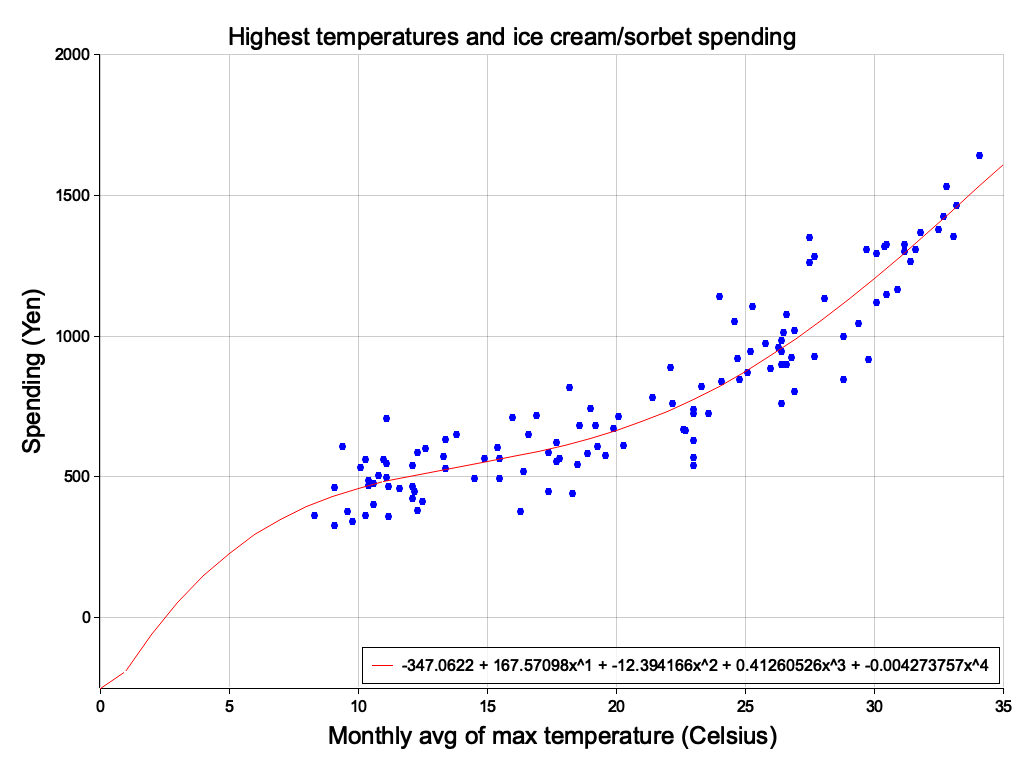
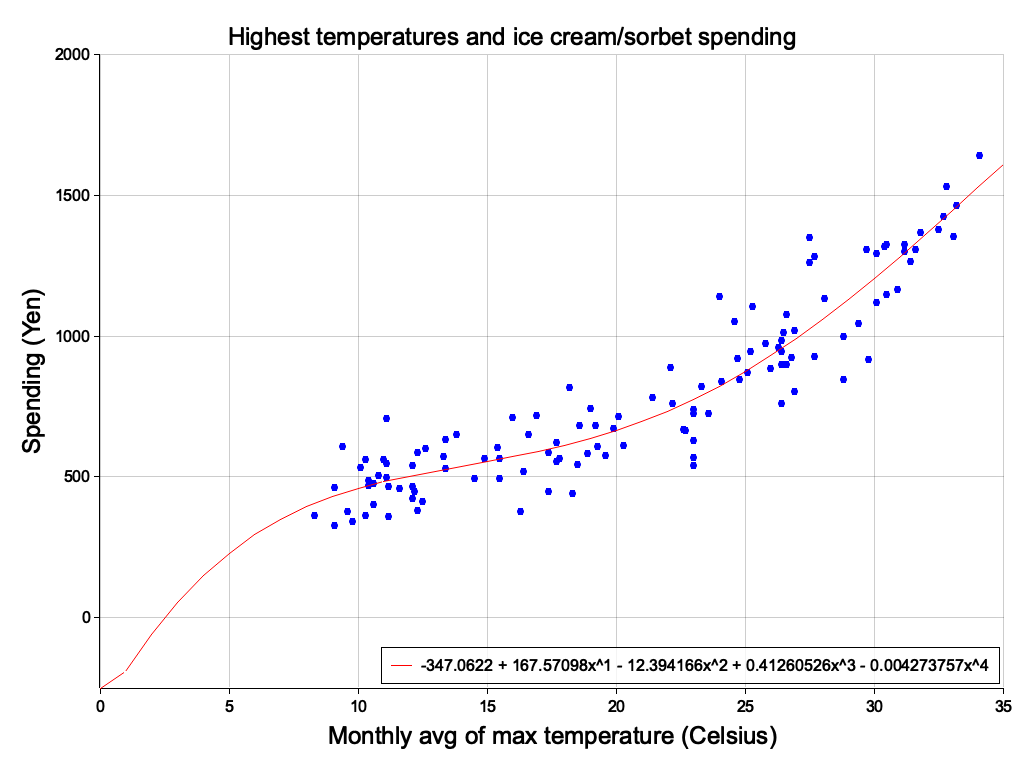
create type Polynomial

Changed region(s): [[0.375, 0.8438, 0.875, 0.875]]

diff --git a/src/regression.rs b/src/regression.rs
@@ -2,7 +2,8 @@ use anyhow::Result;
 use derive_new::new;
 use plotters::prelude::*;
 use smartcore::linalg::naive::dense_matrix::*;
-use std::ops::Range;
+use smartcore::linear::linear_regression::*;
+use std::ops::{Range, RangeBounds};
 
 pub fn slope_and_intercept(data: &[(f32, f32)]) -> (f32, f32) {
     let len = data.len() as f32;
@@ -24,25 +25,68 @@ pub fn slope_and_intercept(data: &[(f32, f32)]) -> (f32, f32) {
     (a, y_avg - a * x_avg)
 }
 
-pub fn set_degree(x: f32, deg: usize) -> Vec<f32> {
+pub fn set_degree(x: f32, degree: usize) -> Vec<f32> {
     let mut v = vec![x];
-    for _ in 1..deg {
+    for _ in 1..degree {
         v.push(v[v.len() - 1] * x);
     }
     v
 }
 
-pub fn format_legend(
-    deg: usize,
-    coef: &DenseMatrix<f32>,
-    intercept: f32,
-) -> String {
-    let mut s = String::new();
-    s = format!("{}{}", s, intercept);
-    for i in 0..deg {
-        s = format!("{} + {}x^{}", s, coef.get(i, 0), i + 1);
+#[derive(new)]
+pub struct Polynomial {
+    lr: LinearRegression<f32, DenseMatrix<f32>>,
+    degree: usize,
+}
+
+impl Polynomial {
+    pub fn polyfit(x: &[f32], y: &[f32], degree: usize) -> Result<Self> {
+        let x = DenseMatrix::from_2d_vec(
+            &x.iter()
+                .map(|&x| set_degree(x, degree))
+                .collect::<Vec<Vec<_>>>(),
+        );
+        let y = y.to_vec();
+
+        let lr = LinearRegression::fit(
+            &x,
+            &y,
+            LinearRegressionParameters::default()
+                .with_solver(LinearRegressionSolverName::QR),
+        )?;
+
+        Ok(Self { lr, degree })
     }
-    s
+
+    pub fn polyval<R>(&self, range: R) -> Result<Vec<f32>>
+    where
+        R: RangeBounds<i32> + Iterator<Item = i32>,
+    {
+        let x = range
+            .map(|x| x as f32)
+            .map(|x| set_degree(x, self.degree))
+            .collect::<Vec<Vec<_>>>();
+
+        let dm = DenseMatrix::from_2d_vec(&x);
+        let yhat = self.lr.predict(&dm)?;
+        Ok(yhat)
+    }
+
+    pub fn format_legend(&self) -> String {
+        let mut s = String::new();
+        s = format!("{}{}", s, self.lr.intercept());
+        for i in 0..self.degree {
+            let coef = self.lr.coefficients().get(i, 0);
+            let (op, coef) = if coef >= 0.0 {
+                ('+', coef)
+            } else {
+                ('-', -coef)
+            };
+
+            s = format!("{} {} {}x^{}", s, op, coef, i + 1);
+        }
+        s
+    }
 }
 
 #[derive(new)]
@@ -76,9 +120,11 @@ pub fn config_simple<'a>() -> PlotConfig<'a> {
 
 pub fn config_icecream<'a>() -> PlotConfig<'a> {
     PlotConfig::new(
-        std::iter::zip(TEMPERATURES, SPENDINGS)
-            .map(|(x, y)| (*x, *y))
-            .collect::<Vec<_>>(),
+        std::iter::zip(
+            dataset::TEMPERATURES.to_vec(),
+            dataset::SPENDINGS.to_vec(),
+        )
+        .collect::<Vec<_>>(),
         0f32..35f32,
         -250f32..2000f32,
         "Highest temperatures and ice cream/sorbet spending",
@@ -163,30 +209,33 @@ pub fn plot<P: AsRef<std::path::Path>>(
     Ok(())
 }
 
-pub const TEMPERATURES: &[f32] = &[
-    9.1, 11.2, 12.3, 18.9, 22.2, 26., 30.9, 31.2, 28.8, 23., 18.3, 11.1,
-    8.3, 9.1, 12.5, 18.5, 23.6, 24.8, 30.1, 33.1, 29.8, 23., 16.3, 11.2,
-    9.6, 10.3, 16.4, 19.2, 24.1, 26.5, 31.4, 33.2, 28.8, 23., 17.4, 12.1,
-    10.6, 9.8, 14.5, 19.6, 24.7, 26.9, 30.5, 31.2, 26.9, 23., 17.4, 11.,
-    10.4, 10.4, 15.5, 19.3, 26.4, 26.4, 30.1, 30.5, 26.4, 22.7, 17.8,
-    13.4, 10.6, 12.2, 14.9, 20.3, 25.2, 26.3, 29.7, 31.6, 27.7, 22.6,
-    15.5, 13.8, 10.8, 12.1, 13.4, 19.9, 25.1, 26.4, 31.8, 30.4, 26.8,
-    20.1, 16.6, 11.1, 9.4, 10.1, 16.9, 22.1, 24.6, 26.6, 32.7, 32.5,
-    26.6, 23., 17.7, 12.1, 10.3, 11.6, 15.4, 19., 25.3, 25.8, 27.5, 32.8,
-    29.4, 23.3, 17.7, 12.6, 11.1, 13.3, 16., 18.2, 24., 27.5, 27.7, 34.1,
-    28.1, 21.4, 18.6, 12.3,
-];
+pub mod dataset {
+    pub const TEMPERATURES: &[f32] = &[
+        9.1, 11.2, 12.3, 18.9, 22.2, 26., 30.9, 31.2, 28.8, 23., 18.3,
+        11.1, 8.3, 9.1, 12.5, 18.5, 23.6, 24.8, 30.1, 33.1, 29.8, 23.,
+        16.3, 11.2, 9.6, 10.3, 16.4, 19.2, 24.1, 26.5, 31.4, 33.2, 28.8,
+        23., 17.4, 12.1, 10.6, 9.8, 14.5, 19.6, 24.7, 26.9, 30.5, 31.2,
+        26.9, 23., 17.4, 11., 10.4, 10.4, 15.5, 19.3, 26.4, 26.4, 30.1,
+        30.5, 26.4, 22.7, 17.8, 13.4, 10.6, 12.2, 14.9, 20.3, 25.2, 26.3,
+        29.7, 31.6, 27.7, 22.6, 15.5, 13.8, 10.8, 12.1, 13.4, 19.9, 25.1,
+        26.4, 31.8, 30.4, 26.8, 20.1, 16.6, 11.1, 9.4, 10.1, 16.9, 22.1,
+        24.6, 26.6, 32.7, 32.5, 26.6, 23., 17.7, 12.1, 10.3, 11.6, 15.4,
+        19., 25.3, 25.8, 27.5, 32.8, 29.4, 23.3, 17.7, 12.6, 11.1, 13.3,
+        16., 18.2, 24., 27.5, 27.7, 34.1, 28.1, 21.4, 18.6, 12.3,
+    ];
 
-pub const SPENDINGS: &[f32] = &[
-    463., 360., 380., 584., 763., 886., 1168., 1325., 847., 542., 441.,
-    499., 363., 327., 414., 545., 726., 847., 1122., 1355., 916., 571.,
-    377., 465., 377., 362., 518., 683., 838., 1012., 1267., 1464., 1000.,
-    629., 448., 466., 404., 343., 493., 575., 921., 1019., 1149., 1303.,
-    805., 739., 587., 561., 486., 470., 564., 609., 899., 946., 1295.,
-    1325., 760., 667., 564., 633., 478., 450., 567., 611., 947., 962.,
-    1309., 1307., 930., 668., 496., 650., 506., 423., 531., 672., 871.,
-    986., 1368., 1319., 924., 716., 651., 708., 609., 535., 717., 890.,
-    1054., 1077., 1425., 1378., 900., 725., 554., 542., 561., 459., 604.,
-    745., 1105., 973., 1263., 1533., 1044., 821., 621., 601., 549., 572.,
-    711., 819., 1141., 1350., 1285., 1643., 1133., 784., 682., 587.,
-];
+    pub const SPENDINGS: &[f32] = &[
+        463., 360., 380., 584., 763., 886., 1168., 1325., 847., 542.,
+        441., 499., 363., 327., 414., 545., 726., 847., 1122., 1355.,
+        916., 571., 377., 465., 377., 362., 518., 683., 838., 1012.,
+        1267., 1464., 1000., 629., 448., 466., 404., 343., 493., 575.,
+        921., 1019., 1149., 1303., 805., 739., 587., 561., 486., 470.,
+        564., 609., 899., 946., 1295., 1325., 760., 667., 564., 633.,
+        478., 450., 567., 611., 947., 962., 1309., 1307., 930., 668.,
+        496., 650., 506., 423., 531., 672., 871., 986., 1368., 1319.,
+        924., 716., 651., 708., 609., 535., 717., 890., 1054., 1077.,
+        1425., 1378., 900., 725., 554., 542., 561., 459., 604., 745.,
+        1105., 973., 1263., 1533., 1044., 821., 621., 601., 549., 572.,
+        711., 819., 1141., 1350., 1285., 1643., 1133., 784., 682., 587.,
+    ];
+}

diff --git a/src/bin/reg_icecream_sc2.rs b/src/bin/reg_icecream_sc2.rs
@@ -1,8 +1,9 @@
 use anyhow::Result;
 use mlnote_rs::{get_output_path, regression::*};
-use smartcore::linalg::naive::dense_matrix::*;
-use smartcore::linear::linear_regression::*;
-use std::path::Path;
+use std::{ops::RangeInclusive, path::Path};
+
+const DEGREE: usize = 2;
+const RANGE: RangeInclusive<i32> = 0..=35;
 
 fn main() -> Result<()> {
     let path = get_output_path();
@@ -12,38 +13,16 @@ fn main() -> Result<()> {
 
 fn run<P: AsRef<Path>>(path: P) -> Result<()> {
     let config = config_icecream();
-
-    // plot linear regression
-    const DEGREE: usize = 2;
-    let x = DenseMatrix::from_2d_vec(
-        &TEMPERATURES
-            .iter()
-            .map(|&x| set_degree(x, DEGREE))
-            .collect::<Vec<Vec<f32>>>(),
-    );
-    let y = SPENDINGS.to_vec();
-
-    let lr = LinearRegression::fit(
-        &x,
-        &y,
-        LinearRegressionParameters::default()
-            .with_solver(LinearRegressionSolverName::QR),
+    let pn = Polynomial::polyfit(
+        dataset::TEMPERATURES,
+        dataset::SPENDINGS,
+        DEGREE,
     )?;
-    let x = (0..=35)
-        .map(|x| x as f32)
-        .map(|x| set_degree(x, DEGREE))
-        .collect::<Vec<Vec<_>>>();
-    let dm = DenseMatrix::from_2d_vec(&x);
-    let yhat = lr.predict(&dm)?;
-    let coef = lr.coefficients();
-    let intercept = lr.intercept();
-    let legend = format_legend(DEGREE, coef, intercept);
+    let yhat = pn.polyval(RANGE)?;
+    let legend = pn.format_legend();
 
-    let series = std::iter::zip(
-        x.into_iter().map(|x| x[0]).collect::<Vec<_>>(),
-        yhat,
-    )
-    .collect::<Vec<_>>();
+    let series =
+        std::iter::zip(RANGE.map(|x| x as f32), yhat).collect::<Vec<_>>();
 
     plot(path, config, series, &legend)?;
 

diff --git a/src/bin/reg_icecream_sc3.rs b/src/bin/reg_icecream_sc3.rs
@@ -1,8 +1,9 @@
 use anyhow::Result;
 use mlnote_rs::{get_output_path, regression::*};
-use smartcore::linalg::naive::dense_matrix::*;
-use smartcore::linear::linear_regression::*;
-use std::path::Path;
+use std::{ops::RangeInclusive, path::Path};
+
+const DEGREE: usize = 3;
+const RANGE: RangeInclusive<i32> = 0..=35;
 
 fn main() -> Result<()> {
     let path = get_output_path();
@@ -13,37 +14,17 @@ fn main() -> Result<()> {
 fn run<P: AsRef<Path>>(path: P) -> Result<()> {
     let config = config_icecream();
 
-    // plot linear regression
-    const DEGREE: usize = 3;
-    let x = DenseMatrix::from_2d_vec(
-        &TEMPERATURES
-            .iter()
-            .map(|&x| set_degree(x, DEGREE))
-            .collect::<Vec<Vec<f32>>>(),
-    );
-    let y = SPENDINGS.to_vec();
-
-    let lr = LinearRegression::fit(
-        &x,
-        &y,
-        LinearRegressionParameters::default()
-            .with_solver(LinearRegressionSolverName::QR),
+    let pn = Polynomial::polyfit(
+        dataset::TEMPERATURES,
+        dataset::SPENDINGS,
+        DEGREE,
     )?;
-    let x = (0..=35)
-        .map(|x| x as f32)
-        .map(|x| set_degree(x, DEGREE))
-        .collect::<Vec<Vec<_>>>();
-    let dm = DenseMatrix::from_2d_vec(&x);
-    let yhat = lr.predict(&dm)?;
-    let coef = lr.coefficients();
-    let intercept = lr.intercept();
-    let legend = format_legend(DEGREE, coef, intercept);
 
-    let series = std::iter::zip(
-        x.into_iter().map(|x| x[0]).collect::<Vec<_>>(),
-        yhat,
-    )
-    .collect::<Vec<_>>();
+    let yhat = pn.polyval(RANGE)?;
+    let legend = pn.format_legend();
+
+    let series =
+        std::iter::zip(RANGE.map(|x| x as f32), yhat).collect::<Vec<_>>();
 
     plot(path, config, series, &legend)?;
 

diff --git a/src/bin/reg_icecream_sc4.rs b/src/bin/reg_icecream_sc4.rs
@@ -1,8 +1,9 @@
 use anyhow::Result;
 use mlnote_rs::{get_output_path, regression::*};
-use smartcore::linalg::naive::dense_matrix::*;
-use smartcore::linear::linear_regression::*;
-use std::path::Path;
+use std::{ops::RangeInclusive, path::Path};
+
+const DEGREE: usize = 4;
+const RANGE: RangeInclusive<i32> = 0..=35;
 
 fn main() -> Result<()> {
     let path = get_output_path();
@@ -13,37 +14,16 @@ fn main() -> Result<()> {
 fn run<P: AsRef<Path>>(path: P) -> Result<()> {
     let config = config_icecream();
 
-    // plot linear regression
-    const DEGREE: usize = 4;
-    let x = DenseMatrix::from_2d_vec(
-        &TEMPERATURES
-            .iter()
-            .map(|&x| set_degree(x, DEGREE))
-            .collect::<Vec<Vec<f32>>>(),
-    );
-    let y = SPENDINGS.to_vec();
-
-    let lr = LinearRegression::fit(
-        &x,
-        &y,
-        LinearRegressionParameters::default()
-            .with_solver(LinearRegressionSolverName::QR),
+    let pn = Polynomial::polyfit(
+        dataset::TEMPERATURES,
+        dataset::SPENDINGS,
+        DEGREE,
     )?;
-    let x = (0..=35)
-        .map(|x| x as f32)
-        .map(|x| set_degree(x, DEGREE))
-        .collect::<Vec<Vec<_>>>();
-    let dm = DenseMatrix::from_2d_vec(&x);
-    let yhat = lr.predict(&dm)?;
-    let coef = lr.coefficients();
-    let intercept = lr.intercept();
-    let legend = format_legend(DEGREE, coef, intercept);
+    let yhat = pn.polyval(RANGE)?;
+    let legend = pn.format_legend();
 
-    let series = std::iter::zip(
-        x.into_iter().map(|x| x[0]).collect::<Vec<_>>(),
-        yhat,
-    )
-    .collect::<Vec<_>>();
+    let series =
+        std::iter::zip(RANGE.map(|x| x as f32), yhat).collect::<Vec<_>>();
 
     plot(path, config, series, &legend)?;
 

diff --git a/src/bin/reg_icecream_sc.rs b/src/bin/reg_icecream_sc.rs
@@ -1,8 +1,9 @@
 use anyhow::Result;
 use mlnote_rs::{get_output_path, regression::*};
-use smartcore::linalg::naive::dense_matrix::*;
-use smartcore::linear::linear_regression::*;
-use std::path::Path;
+use std::{ops::RangeInclusive, path::Path};
+
+const DEGREE: usize = 1;
+const RANGE: RangeInclusive<i32> = 0..=35;
 
 fn main() -> Result<()> {
     let path = get_output_path();
@@ -13,30 +14,16 @@ fn main() -> Result<()> {
 fn run<P: AsRef<Path>>(path: P) -> Result<()> {
     let config = config_icecream();
 
-    let x = DenseMatrix::from_2d_vec(
-        &TEMPERATURES
-            .iter()
-            .map(|x| vec![*x])
-            .collect::<Vec<Vec<f32>>>(),
-    );
-    let y = SPENDINGS.to_vec();
-
-    let lr = LinearRegression::fit(
-        &x,
-        &y,
-        LinearRegressionParameters::default()
-            .with_solver(LinearRegressionSolverName::QR),
+    let pn = Polynomial::polyfit(
+        dataset::TEMPERATURES,
+        dataset::SPENDINGS,
+        DEGREE,
     )?;
-    let x = (0..=35).map(|x| vec![x as f32]).collect::<Vec<Vec<_>>>();
-    let dm = DenseMatrix::from_2d_vec(&x);
-    let yhat = lr.predict(&dm)?;
-    let coef = lr.coefficients().get(0, 0);
-    let intercept = lr.intercept();
+    let yhat = pn.polyval(RANGE)?;
+    let legend = pn.format_legend();
 
     let series =
-        std::iter::zip(x.into_iter().flatten().collect::<Vec<_>>(), yhat)
-            .collect::<Vec<_>>();
-    let legend = format!("{:.3}x + {:.3}", coef, intercept);
+        std::iter::zip(RANGE.map(|x| x as f32), yhat).collect::<Vec<_>>();
 
     plot(path, config, series, &legend)?;
 
